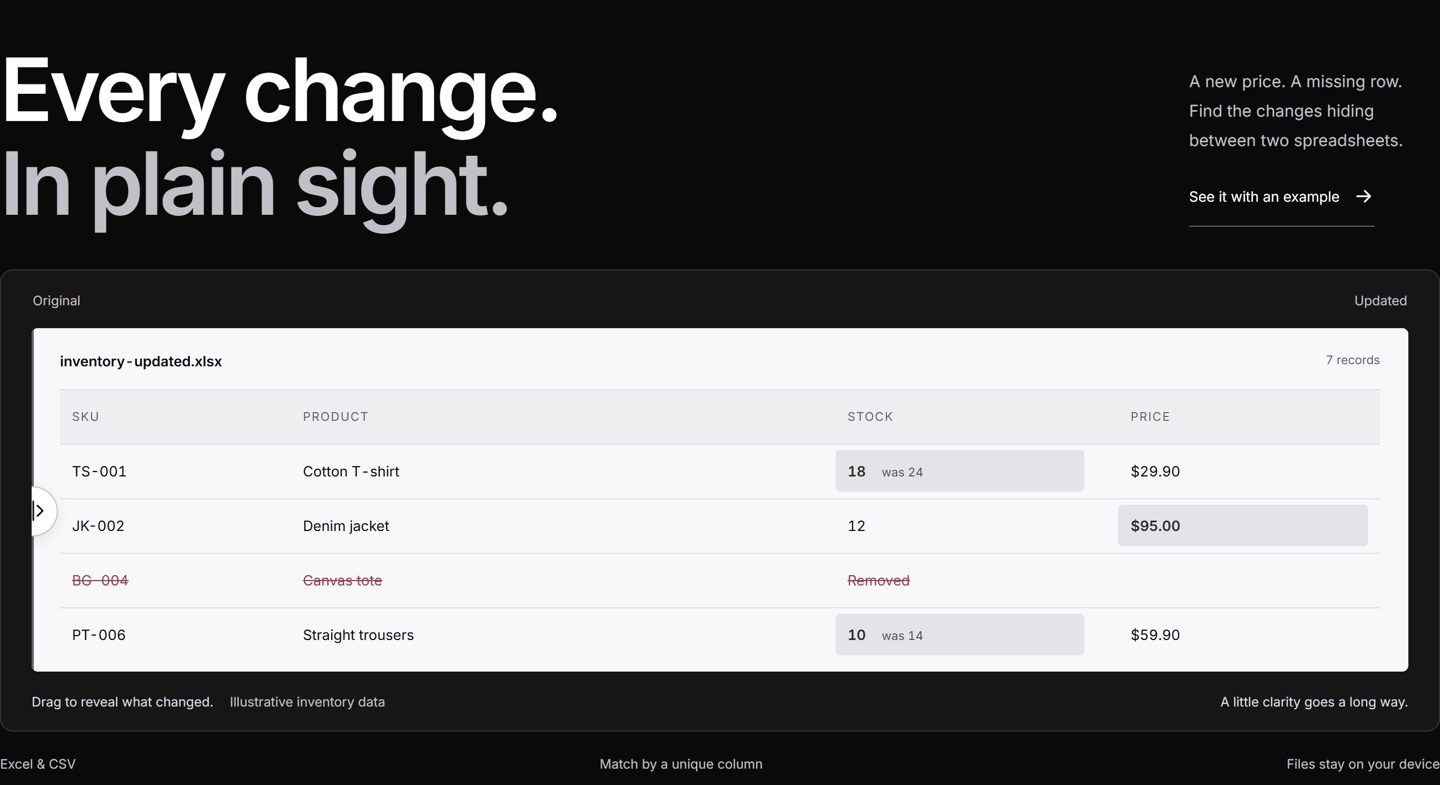
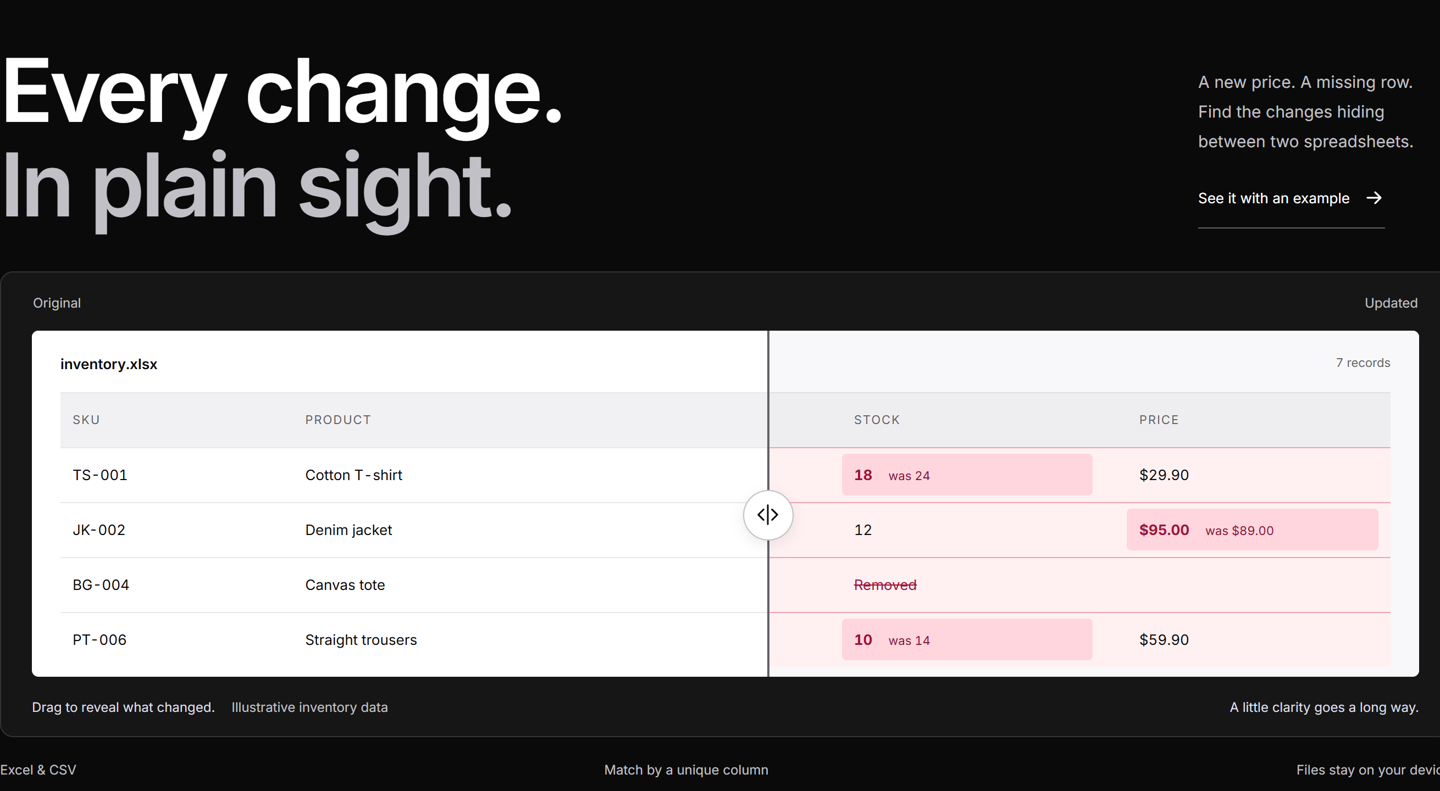
style: highlight changed preview rows in red

diff --git a/dist/index.html b/dist/index.html
@@ -2,7 +2,7 @@
 <header><a class="brand" href="./" aria-label="Sheet Diff home"><svg viewBox="0 0 34 34" aria-hidden="true"><path d="M3 8h20v22H3zM11 3h20v22H11zM16 10h9M16 15h9M16 20h5"/></svg>sheet<span>diff.</span></a><a class="author" href="https://github.com/VitorRodi" target="_blank" rel="noopener">A tool by Vitor Rodi</a><a class="nav-cta" href="#workspace">Compare your files <svg viewBox="0 0 20 20" aria-hidden="true"><path d="M4 10h12m-5-5 5 5-5 5"/></svg></a></header>
 <main><section class="hero"><div class="hero-heading"><h1>Every change.<br><span>In plain sight.</span></h1><div class="hero-aside"><p>A new price. A missing row. <br>Find the changes hiding <br>between two spreadsheets.</p><button id="hero-demo" class="text-button">See it with an example <svg viewBox="0 0 20 20" aria-hidden="true"><path d="M4 10h12m-5-5 5 5-5 5"/></svg></button></div></div>
 <div class="comparison-scene"><div class="scene-margin"><span>Original</span><span>Updated</span></div><div class="scene-stage"><div class="scene-table" aria-hidden="true"><div class="scene-table-top"><span>inventory.xlsx</span><span>6 records</span></div><div class="scene-grid scene-head"><span>SKU</span><span>PRODUCT</span><span>STOCK</span><span>PRICE</span></div><div class="scene-grid"><span>TS-001</span><span>Cotton T-shirt</span><span>24</span><span>$29.90</span></div><div class="scene-grid"><span>JK-002</span><span>Denim jacket</span><span>12</span><span>$89.00</span></div><div class="scene-grid"><span>BG-004</span><span>Canvas tote</span><span>6</span><span>$24.00</span></div><div class="scene-grid"><span>PT-006</span><span>Straight trousers</span><span>14</span><span>$59.90</span></div></div>
-<div class="scene-table scene-after" aria-hidden="true"><div class="scene-table-top"><span>inventory-updated.xlsx</span><span>7 records</span></div><div class="scene-grid scene-head"><span>SKU</span><span>PRODUCT</span><span>STOCK</span><span>PRICE</span></div><div class="scene-grid"><span>TS-001</span><span>Cotton T-shirt</span><span class="preview-change">18 <small>was 24</small></span><span>$29.90</span></div><div class="scene-grid"><span>JK-002</span><span>Denim jacket</span><span>12</span><span class="preview-change">$95.00</span></div><div class="scene-grid scene-removed"><span>BG-004</span><span>Canvas tote</span><span>Removed</span><span></span></div><div class="scene-grid"><span>PT-006</span><span>Straight trousers</span><span class="preview-change">10 <small>was 14</small></span><span>$59.90</span></div></div><div class="scene-divider" aria-hidden="true"><span><svg viewBox="0 0 24 24"><path d="m8 7-5 5 5 5m8-10 5 5-5 5M12 3v18"/></svg></span></div><input id="reveal" type="range" min="0" max="100" value="53" aria-label="Reveal updated spreadsheet" aria-describedby="reveal-description"></div><div class="scene-caption"><p id="reveal-description">Drag to reveal what changed.<span>Illustrative inventory data</span></p><span>A little clarity goes a long way.</span></div></div>
+<div class="scene-table scene-after" aria-hidden="true"><div class="scene-table-top"><span>inventory-updated.xlsx</span><span>7 records</span></div><div class="scene-grid scene-head"><span>SKU</span><span>PRODUCT</span><span>STOCK</span><span>PRICE</span></div><div class="scene-grid"><span>TS-001</span><span>Cotton T-shirt</span><span class="preview-change">18 <small>was 24</small></span><span>$29.90</span></div><div class="scene-grid"><span>JK-002</span><span>Denim jacket</span><span>12</span><span class="preview-change">$95.00 <small>was $89.00</small></span></div><div class="scene-grid scene-removed"><span>BG-004</span><span>Canvas tote</span><span>Removed</span><span></span></div><div class="scene-grid"><span>PT-006</span><span>Straight trousers</span><span class="preview-change">10 <small>was 14</small></span><span>$59.90</span></div></div><div class="scene-divider" aria-hidden="true"><span><svg viewBox="0 0 24 24"><path d="m8 7-5 5 5 5m8-10 5 5-5 5M12 3v18"/></svg></span></div><input id="reveal" type="range" min="0" max="100" value="53" aria-label="Reveal updated spreadsheet" aria-describedby="reveal-description"></div><div class="scene-caption"><p id="reveal-description">Drag to reveal what changed.<span>Illustrative inventory data</span></p><span>A little clarity goes a long way.</span></div></div>
 <div class="hero-bottom"><span>Excel & CSV</span><span>Match by a unique column</span><span>Files stay on your device</span></div></section>
 <section id="workspace" class="workspace" aria-label="Compare spreadsheets"><div class="workspace-intro"><svg class="section-symbol" viewBox="0 0 64 64" aria-hidden="true"><path d="M6 18h37v37H6zM21 6h37v37H21zM27 18h20M27 25h20M27 32h13"/></svg><h2>Compare your<br>spreadsheets.</h2><p>Two versions, one unique identifier. <br>We’ll take it from there.</p><button id="demo" class="text-button">Try the inventory example <svg viewBox="0 0 20 20" aria-hidden="true"><path d="M4 10h12m-5-5 5 5-5 5"/></svg></button><p class="workspace-tip">First row = column headers.<br>Up to 5 MB and 10,000 rows per file.</p></div>
 <div class="workspace-controls"><div class="uploads"><div class="file-card" id="drop0"><div class="file-top"><span class="step">A</span><span class="file-kind">THE STARTING POINT</span></div><label class="file-label" for="file0"><strong>Original file</strong><svg viewBox="0 0 24 24" aria-hidden="true"><path d="M12 16V4m-5 5 5-5 5 5M4 15v5h16v-5"/></svg></label><p class="file-help">Drop your .xlsx or .csv here</p><input id="file0" type="file" accept=".xlsx,.csv" aria-label="Upload original file"><label class="choose-file" for="file0">Choose file</label><p id="name0" class="file-name">No file selected</p><div class="sheet-field" id="sf0" hidden><label for="sheet0">Worksheet</label><select id="sheet0"></select></div></div><div class="file-card" id="drop1"><div class="file-top"><span class="step">B</span><span class="file-kind">THE LATEST VERSION</span></div><label class="file-label" for="file1"><strong>Updated file</strong><svg viewBox="0 0 24 24" aria-hidden="true"><path d="M12 16V4m-5 5 5-5 5 5M4 15v5h16v-5"/></svg></label><p class="file-help">Drop your .xlsx or .csv here</p><input id="file1" type="file" accept=".xlsx,.csv" aria-label="Upload updated file"><label class="choose-file" for="file1">Choose file</label><p id="name1" class="file-name">No file selected</p><div class="sheet-field" id="sf1" hidden><label for="sheet1">Worksheet</label><select id="sheet1"></select></div></div></div>

diff --git a/dist/style.css b/dist/style.css
@@ -36,3 +36,8 @@ main{max-width:none}.hero{background:#0A0A0A;color:#FFFFFF;padding:50px max(32px
 @media(max-width:1400px){.workspace{margin:48px 32px}.closing{padding:48px 32px}.site-footer{margin:0 32px}}
 @media(max-width:1000px){.hero-heading{gap:25px}.hero-aside{min-width:210px}.hero-aside p{font-size:14px}.workspace{gap:25px}.workspace-intro h2{font-size:29px}.summary{gap:25px}.scene-grid{gap:12px}}
 @media(max-width:700px){header{padding:20px;gap:12px}header .brand{font-size:23px}header .nav-cta{font-size:11px;padding:10px 12px}.hero{padding:32px 20px 0}h1{font-size:clamp(41px,10.2vw,65px)}.hero-heading{margin-bottom:27px}.hero-aside{align-items:flex-start;gap:18px}.hero-aside p{font-size:12px;line-height:1.75}.hero-aside .text-button{font-size:11px;max-width:130px}.comparison-scene{padding:14px 11px}.scene-caption{font-size:11px}.scene-stage{min-height:230px}.scene-table-top{font-size:11px}.scene-grid{gap:3px;font-size:11px;min-height:37px}.scene-head{font-size:10px}.scene-grid>span{padding:6px 3px}.scene-table-top>span:last-child{display:none}.scene-removed>span:nth-child(3){font-size:10px}.scene-margin{font-size:11px}.hero-bottom{font-size:11px;gap:15px}.workspace{margin:38px 20px}.workspace h2{font-size:29px;padding-right:44px}.workspace-intro>p{font-size:13px}.uploads{grid-template-columns:1fr}.file-card{padding:18px 20px;display:grid;grid-template-columns:1fr auto;gap:9px 14px;align-items:center}.file-top{grid-column:1/-1;margin-bottom:5px;justify-content:flex-start;gap:10px}.file-kind{display:inline;font-size:11px}.file-label{grid-column:1/-1}.file-help{margin:0;grid-column:1;font-size:12px;max-width:none}.choose-file{grid-column:2;grid-row:3/5}.file-name{grid-column:1;margin-top:0;min-height:0;font-size:11px}.sheet-field{grid-column:1/-1}.primary{font-size:14px}.key-field small,.local-note{font-size:12px}#results{padding:32px 20px}#results h2{font-size:27px}.summary{gap:20px 12px}.stat span{font-size:11px}.tabs button{font-size:11px}.section-bar>.secondary{font-size:11px}.reading-note{font-size:11px}.closing{padding:36px 20px}.closing h2{font-size:29px}.closing p{font-size:13px}.site-footer{margin:0 20px;padding:26px 0}.footer-creator>span{font-size:11px}}
+/* Highlight changed preview rows as the divider reveals the updated version. */
+.scene-after .scene-grid:not(.scene-head){background:#FFF1F2;border-color:#EFA3AF}
+.scene-after .preview-change{color:#9F1239;background:#FFD6DD;font-weight:700}
+.scene-after .preview-change small{color:#881337;opacity:1;font-weight:400}
+.scene-after .scene-removed{background:#FFE1E7;color:#9F1239}
